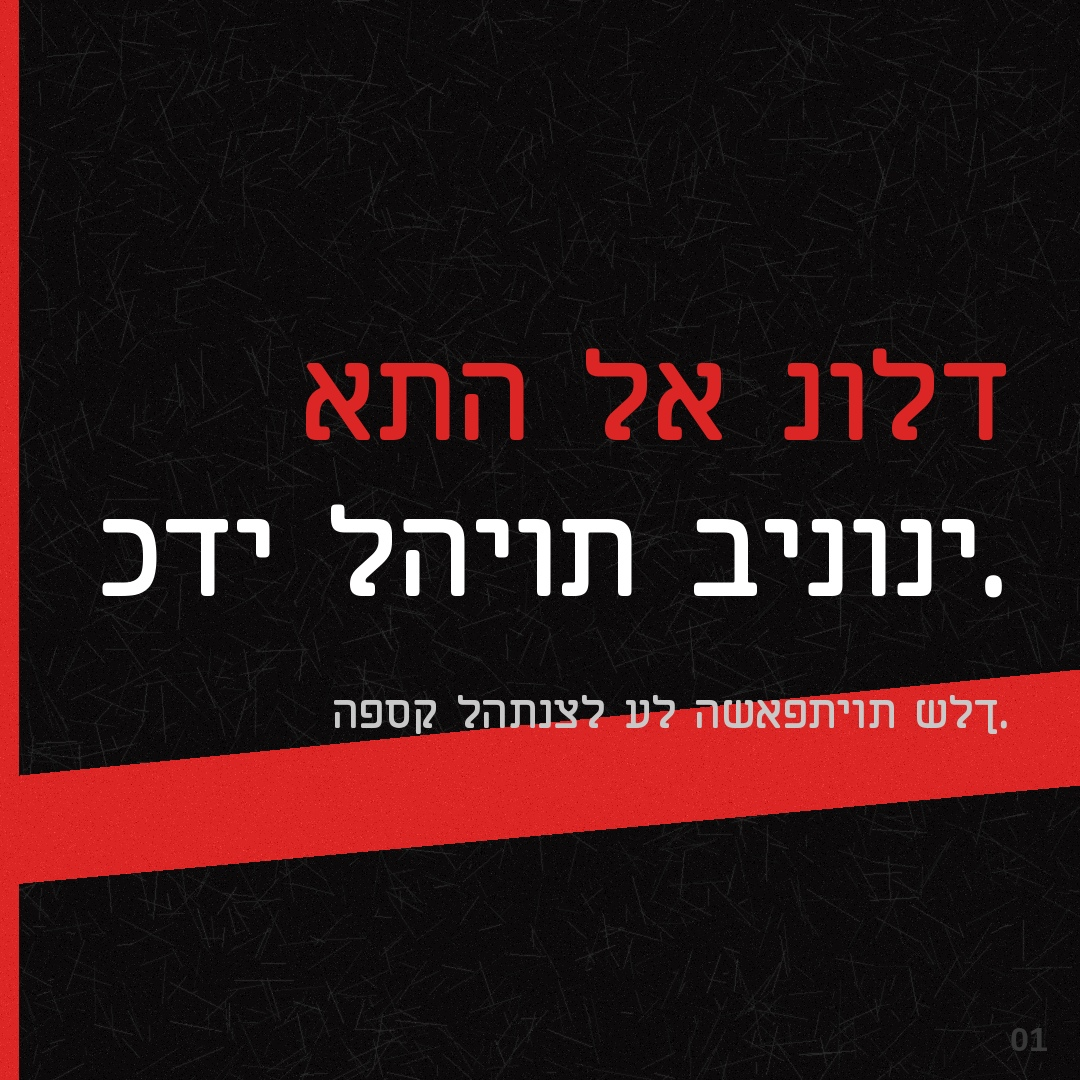
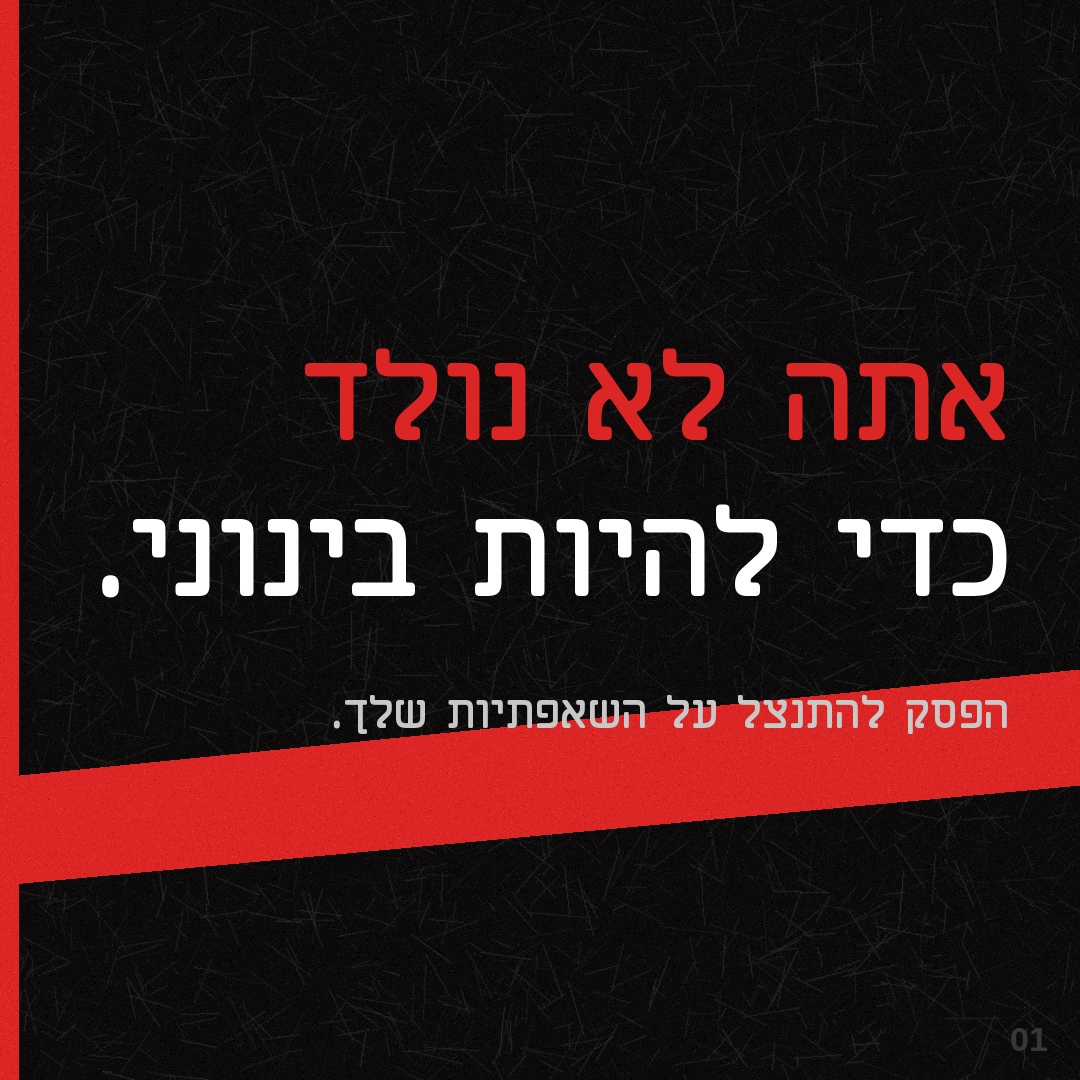
Fix Hebrew RTL rendering — remove bidi double-reversal
PIL renders Hebrew text RTL natively via the culmus font engine.
Applying python-bidi on top caused double-reversal (garbled text).
Removed all get_display() calls; now text renders correctly as-is.

https://claude.ai/code/session_01SPemNWimhbZ6kudyHU48EH

diff --git a/social_images/generate_hebrew_bold.py b/social_images/generate_hebrew_bold.py
@@ -6,7 +6,6 @@ Backgrounds: raw concrete, glitch lines, brutal geometry, fire gradient.
 
 import os, random, math
 from PIL import Image, ImageDraw, ImageFont, ImageFilter, ImageChops
-from bidi.algorithm import get_display
 
 OUTPUT_DIR = "/home/user/-/social_images/output_hebrew"
 os.makedirs(OUTPUT_DIR, exist_ok=True)
@@ -24,8 +23,6 @@ def hfont(path, size):
     except Exception:
         return ImageFont.truetype(HEB_BOLD, size)
 
-def bidi(text):
-    return get_display(text)
 
 # ── 7 quotes ──────────────────────────────────────────────────────────────────
 QUOTES = [
@@ -224,7 +221,7 @@ def rtl_wrap(text, font, max_w, draw):
     lines, cur = [], []
     for word in words:
         test = " ".join(cur + [word])
-        bb = draw.textbbox((0,0), bidi(test), font=font)
+        bb = draw.textbbox((0,0), test, font=font)
         if cur and (bb[2]-bb[0]) > max_w:
             lines.append(" ".join(cur))
             cur = [word]
@@ -236,7 +233,7 @@ def rtl_wrap(text, font, max_w, draw):
 
 def draw_rtl_line(draw, text, x_right, y, font, fill):
     """Draw one RTL line right-aligned at x_right."""
-    vis = bidi(text)
+    vis = text
     bb = draw.textbbox((0, 0), vis, font=font)
     tw = bb[2] - bb[0]
     draw.text((x_right - tw, y), vis, font=font, fill=fill)
@@ -259,7 +256,7 @@ def layout_full_bleed(draw, quote, is_dark_bg=True):
     size = 195
     while size > 60:
         f = hfont(font_path, size)
-        max_w = max(draw.textbbox((0,0), bidi(l), font=f)[2] for l in lines_raw)
+        max_w = max(draw.textbbox((0,0), l, font=f)[2] for l in lines_raw)
         if max_w <= W - margin * 2:
             break
         size -= 5
@@ -294,7 +291,7 @@ def layout_split_bottom(draw, quote, is_dark_bg=True):
     size = 185
     while size > 55:
         f = hfont(font_path, size)
-        max_w = max(draw.textbbox((0,0), bidi(l), font=f)[2] for l in lines_raw)
+        max_w = max(draw.textbbox((0,0), l, font=f)[2] for l in lines_raw)
         if max_w <= W - margin*2:
             break
         size -= 5
@@ -330,7 +327,7 @@ def layout_center_punch(draw, quote, is_dark_bg=True):
     size = 175
     while size > 55:
         f = hfont(font_path, size)
-        max_w = max(draw.textbbox((0,0), bidi(l), font=f)[2] for l in lines_raw)
+        max_w = max(draw.textbbox((0,0), l, font=f)[2] for l in lines_raw)
         if max_w <= W - margin*2:
             break
         size -= 5
@@ -372,7 +369,7 @@ def layout_light_punch(draw, quote, is_dark_bg=False):
     size = 190
     while size > 55:
         f = hfont(font_path, size)
-        max_w = max(draw.textbbox((0,0), bidi(l), font=f)[2] for l in lines_raw)
+        max_w = max(draw.textbbox((0,0), l, font=f)[2] for l in lines_raw)
         if max_w <= W - margin*2:
             break
         size -= 5
